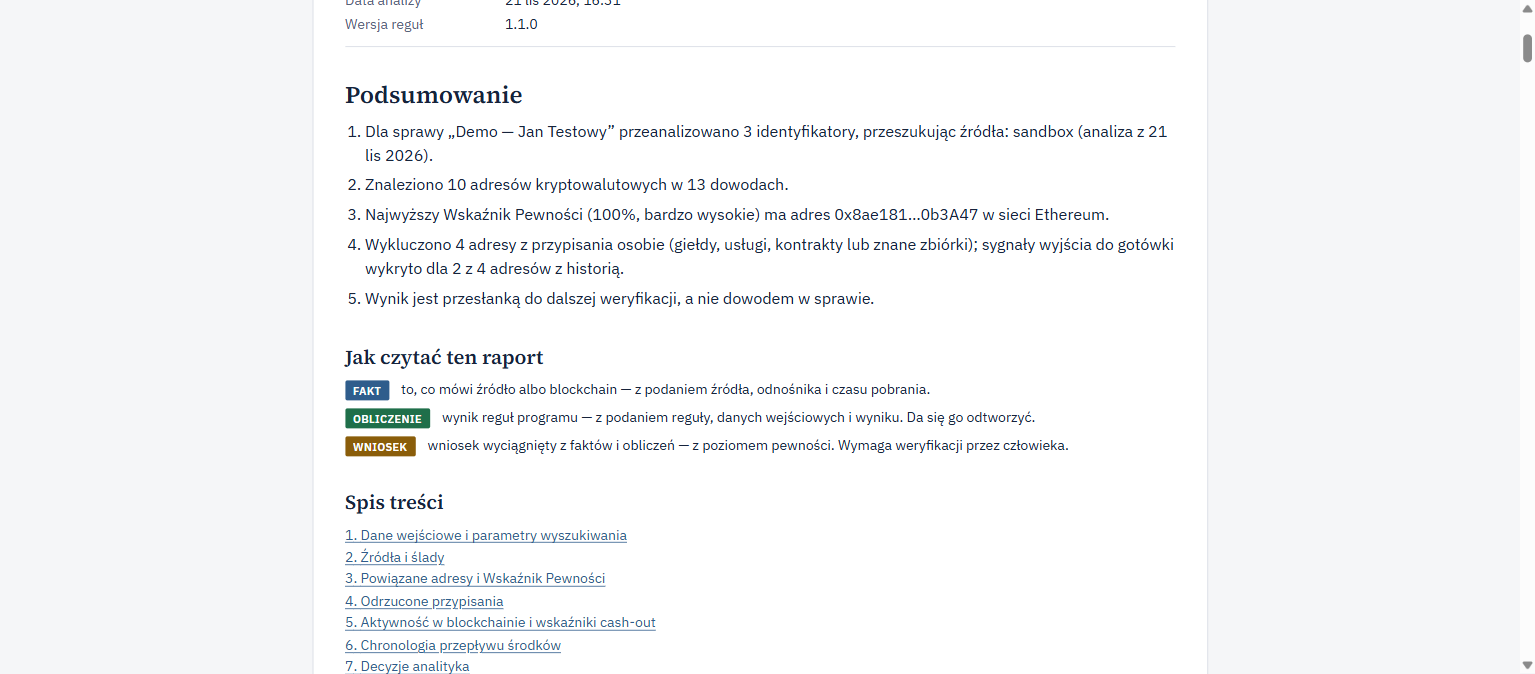
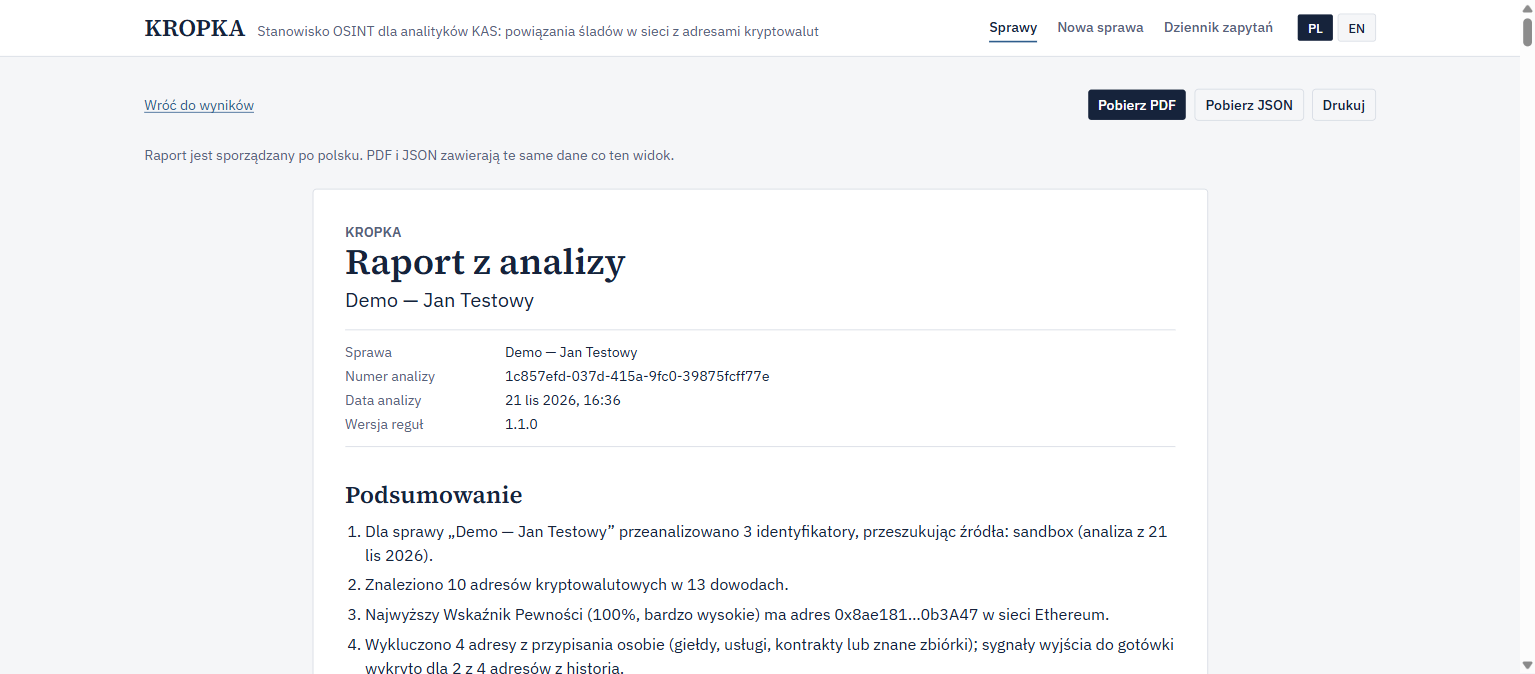
docs: report and request-log screenshots, README examples; wider identifier column in decisions table

diff --git a/packages/core/src/report/build.ts b/packages/core/src/report/build.ts
@@ -407,7 +407,7 @@ export function buildReport(input: ReportInput): ReportDoc {
         : table(
             ['Adres', 'Identyfikator', 'Wynik algorytmu', 'Decyzja analityka', 'Kto i kiedy', 'Komentarz'],
             decided.map((l) => [shortAddr(l.address.address), identityLabel(l), `${pct(l.score)}, ${label(BANDS_PL, l.band).toLowerCase()}`, label(DECISIONS_PL, l.analystDecision!), `${l.analystName ?? DASH}, ${fmtDateTime(l.decidedAt)}`, l.analystNote ?? DASH]),
-            { kind: 'FAKT', weights: [3, 4, 3, 2.5, 4, 5] },
+            { kind: 'FAKT', weights: [3, 6, 3, 2.5, 4, 5] },
           ),
     ],
   });

diff --git a/README.md b/README.md
@@ -40,7 +40,19 @@ Sprawdzenie: `curl http://localhost:3000/api/health` → `{"status":"ok","db":"u
 TODO — pełny przebieg analizy na danych syntetycznych.
 
 ## Przykłady (zrzuty ekranu / logi)
-TODO
+Zrzuty z przebiegu na danych syntetycznych (`docs/screenshots/`):
+
+| Plik | Co pokazuje |
+|---|---|
+| `01-nowa-sprawa.png` | formularz nowej sprawy, wybór źródeł |
+| `02-wyniki.png` | wyniki: powiązania, Wskaźnik Pewności i rozbicie na reguły |
+| `03-graf.png` | graf powiązań (Cytoscape.js) |
+| `04-karta-adresu.png` | karta adresu: źródła, wskaźniki blockchain |
+| `05-odrzucone.png` | odrzucone przypisania z powodem |
+| `06-kto-stoi-za-adresem.png` | wariant „adres na wejściu”: konta, które go opublikowały |
+| `07-raport-html.png`, `08-raport-decyzje-wnioski.png` | raport w aplikacji |
+| `09-…`, `10-…`, `11-raport-pdf-….png` | raport PDF (strony wyrenderowane z pliku) |
+| `12-dziennik-zapytan.png` | Dziennik zapytań (widok „tylko zablokowane i z błędem”; wiersze pokazowe) |
 
 ## Zgodność i bezpieczeństwo
 - **Wyłącznie OSINT.** Jawne, legalne źródła; oficjalne API tam, gdzie istnieją; przestrzeganie regulaminów i robots.txt źródeł. Bez logowania na cudze konta, wycieków, omijania zabezpieczeń i skanowania podatności.
